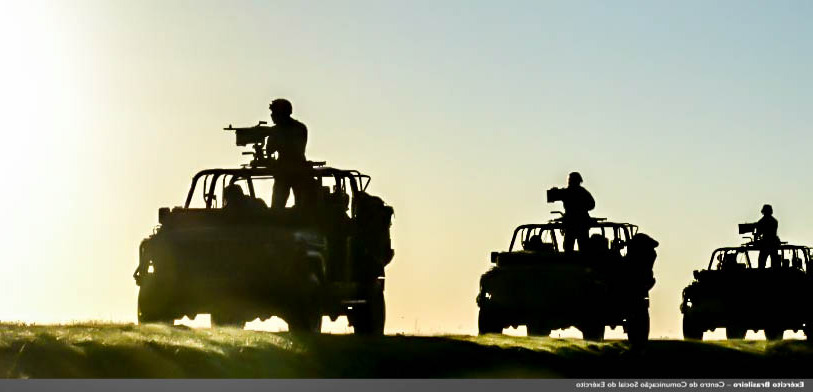
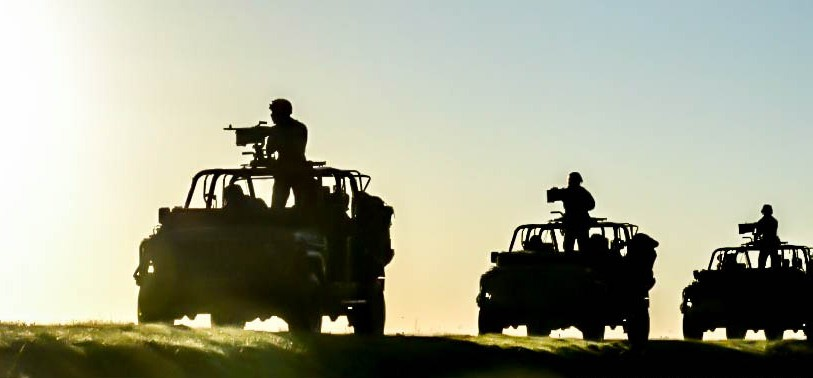
troca de backgorund

diff --git a/css/style.css b/css/style.css
@@ -1,7 +1,7 @@
 body {
-    /* background-image: url('../img/operações.jpg'); */
+    background-image: url('../img/operações.jpg');
     /* background-image: url('../img/blindados.jpg'); */
-    background-image: url('../img/25blog.png');
+    /* background-image: url('../img/25blog.png'); */
     background-repeat: no-repeat;
     background-size: cover;
     font-family: 'Roboto', sans-serif;
@@ -42,10 +42,10 @@ header {
     background-color: #FFFFFF;
     padding: 1rem;
     position: absolute;
-    left: 8%;
+    /* left: 8%;
+    top: 15%; */
     top: 15%;
-    /* top: 25%;
-    right: 8%; */
+    right: 5%;
 }
 
 .cadastro {
